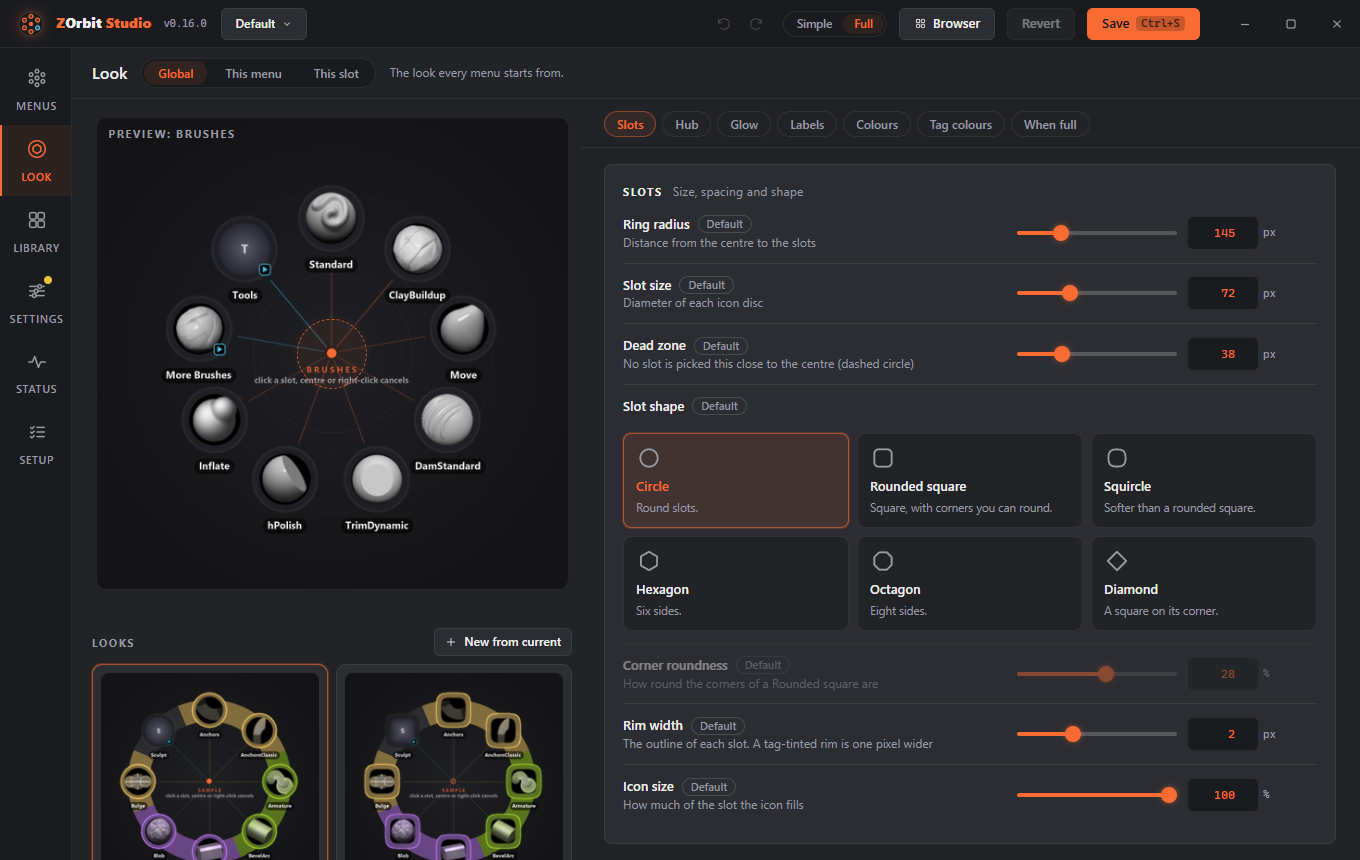
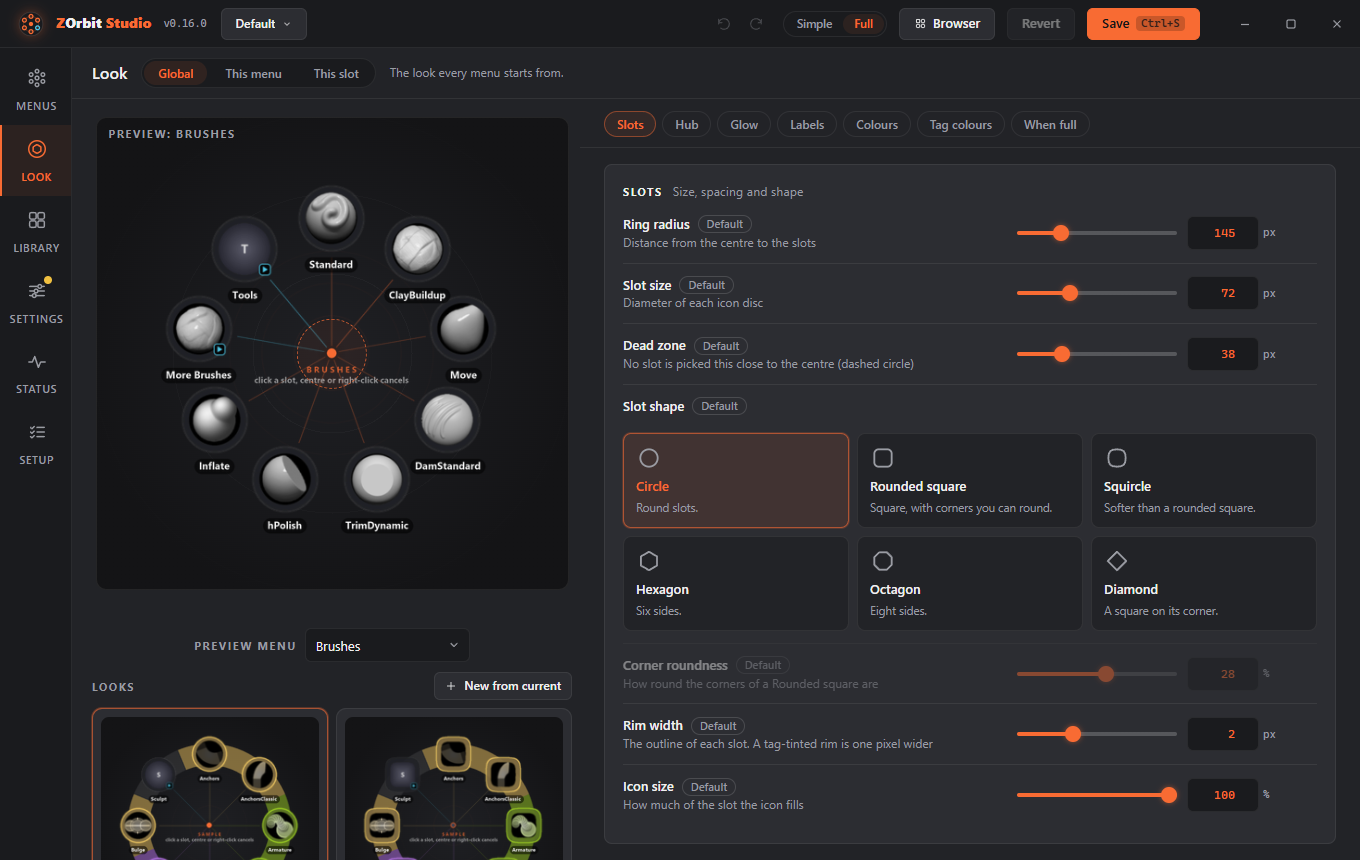
Studio: the Preview menu list sits under the ring preview (#124)
It is a compact list centred under the picture, with the gallery of looks
after it. The Look picture and the Studio page are updated.

Fixes #124

Changed region(s): [[0.0618, 0.7256, 0.4324, 1.0], [0.1544, 0.7256, 0.2471, 0.7558], [0.0618, 0.7256, 0.0926, 0.7558]]

diff --git a/zorbit/studio_ui/styles.css b/zorbit/studio_ui/styles.css
@@ -1056,7 +1056,9 @@ body.dragging .irow:hover { background: transparent; }
 /* The preview and the gallery take the spare width; the controls stop at a readable width. */
 .look-body { flex: 1; min-height: 0; display: grid; grid-template-columns: minmax(300px, 1fr) minmax(480px, 780px); }
 .look-left { display: flex; flex-direction: column; gap: 10px; padding: 18px 8px 18px 20px; overflow: auto; align-content: start; }
-.look-pick { display: flex; flex-direction: column; gap: 6px; }
+.look-pick { display: flex; align-items: center; justify-content: center; gap: 8px; }   /* under the ring preview, label and dropdown side by side */
+.look-pick[hidden] { display: none; }
+.look-pick .inp.sel { width: auto; min-width: 150px; max-width: 260px; }
 .look-stage { cursor: default; }
 .look-stage.over-slot { cursor: pointer; }
 .look-stage:focus-visible { outline: 2px solid var(--accent); outline-offset: 2px; }

diff --git a/zorbit/studio_ui/look-screen.js b/zorbit/studio_ui/look-screen.js
@@ -676,7 +676,7 @@
     function applyTarget() { return level0 === 'preset' ? { level: 'global' } : target(); }
     view.gallery = null;
     const gallery = presetsOn() && sl0 === null ? buildGallery() : null;
-    if (gallery) left.insertBefore(gallery.el, pickLabel);        // under the picture, above the preview menu and the dead-zone hint, so it is on screen when Look opens
+    if (gallery) pickLabel.after(gallery.el);                     // under the picture and its preview menu, above the dead-zone hint, so it is on screen when Look opens
 
     function applyLook(id, keep) {
       const t = applyTarget(), c = lookCtx();

diff --git a/docs/studio.md b/docs/studio.md
@@ -205,7 +205,7 @@ The animation list stays below it: a menu's open animation is not part of a look
 
 ![The Look screen at the Global level: the ring preview of the Brushes menu, the gallery of looks and a menu picker on the left, and the Slots group with the six slot shapes on the right, each setting with a Default badge](images/studio-look.png)
 
-On the left is a preview of the real ring, drawn by the same code as the app, with the dead zone as a dashed circle, and under it the [gallery of looks](#looks). Hover a slot and it lights up in its own shape and shows the hover glow the app would draw. In Full mode, click a slot to [style it on its own](#styling-one-slot). The **Preview menu** list picks which menu the preview shows. It only changes the preview, not the menu you are editing on the Menus screen. **Sample ring with tags** shows a ring of library brushes in your tag colours, for the tag settings.
+On the left is a preview of the real ring, drawn by the same code as the app, with the dead zone as a dashed circle, and under it the **Preview menu** list and the [gallery of looks](#looks). Hover a slot and it lights up in its own shape and shows the hover glow the app would draw. In Full mode, click a slot to [style it on its own](#styling-one-slot). The **Preview menu** list, just under the picture, picks which menu the preview shows. It only changes the preview, not the menu you are editing on the Menus screen. **Sample ring with tags** shows a ring of library brushes in your tag colours, for the tag settings.
 
 ### Levels
 

diff --git a/CHANGELOG.md b/CHANGELOG.md
@@ -14,6 +14,7 @@ All notable changes to this project are listed here. The format follows
 
 ### Changed
 
+- Studio: on the Look screen the **Preview menu** list sits directly under the ring preview, as a compact list centred under the picture, and the gallery of looks follows it (#124).
 - **Setup** has three steps. A step that is done folds to one line you can open again. **Your brushes** and **What's where** are gone; Setup ends with a **Next** row of links to the screens and **Take the tour**. The tour is six stops instead of ten.
 - An open browser now changes theme the moment you pick one in Studio, instead of up to half a second later.
 - ZOrbit is now built and tested on Python 3.14 instead of 3.12. The packaged app bundles the new interpreter; running from a checkout needs Python 3.14.
